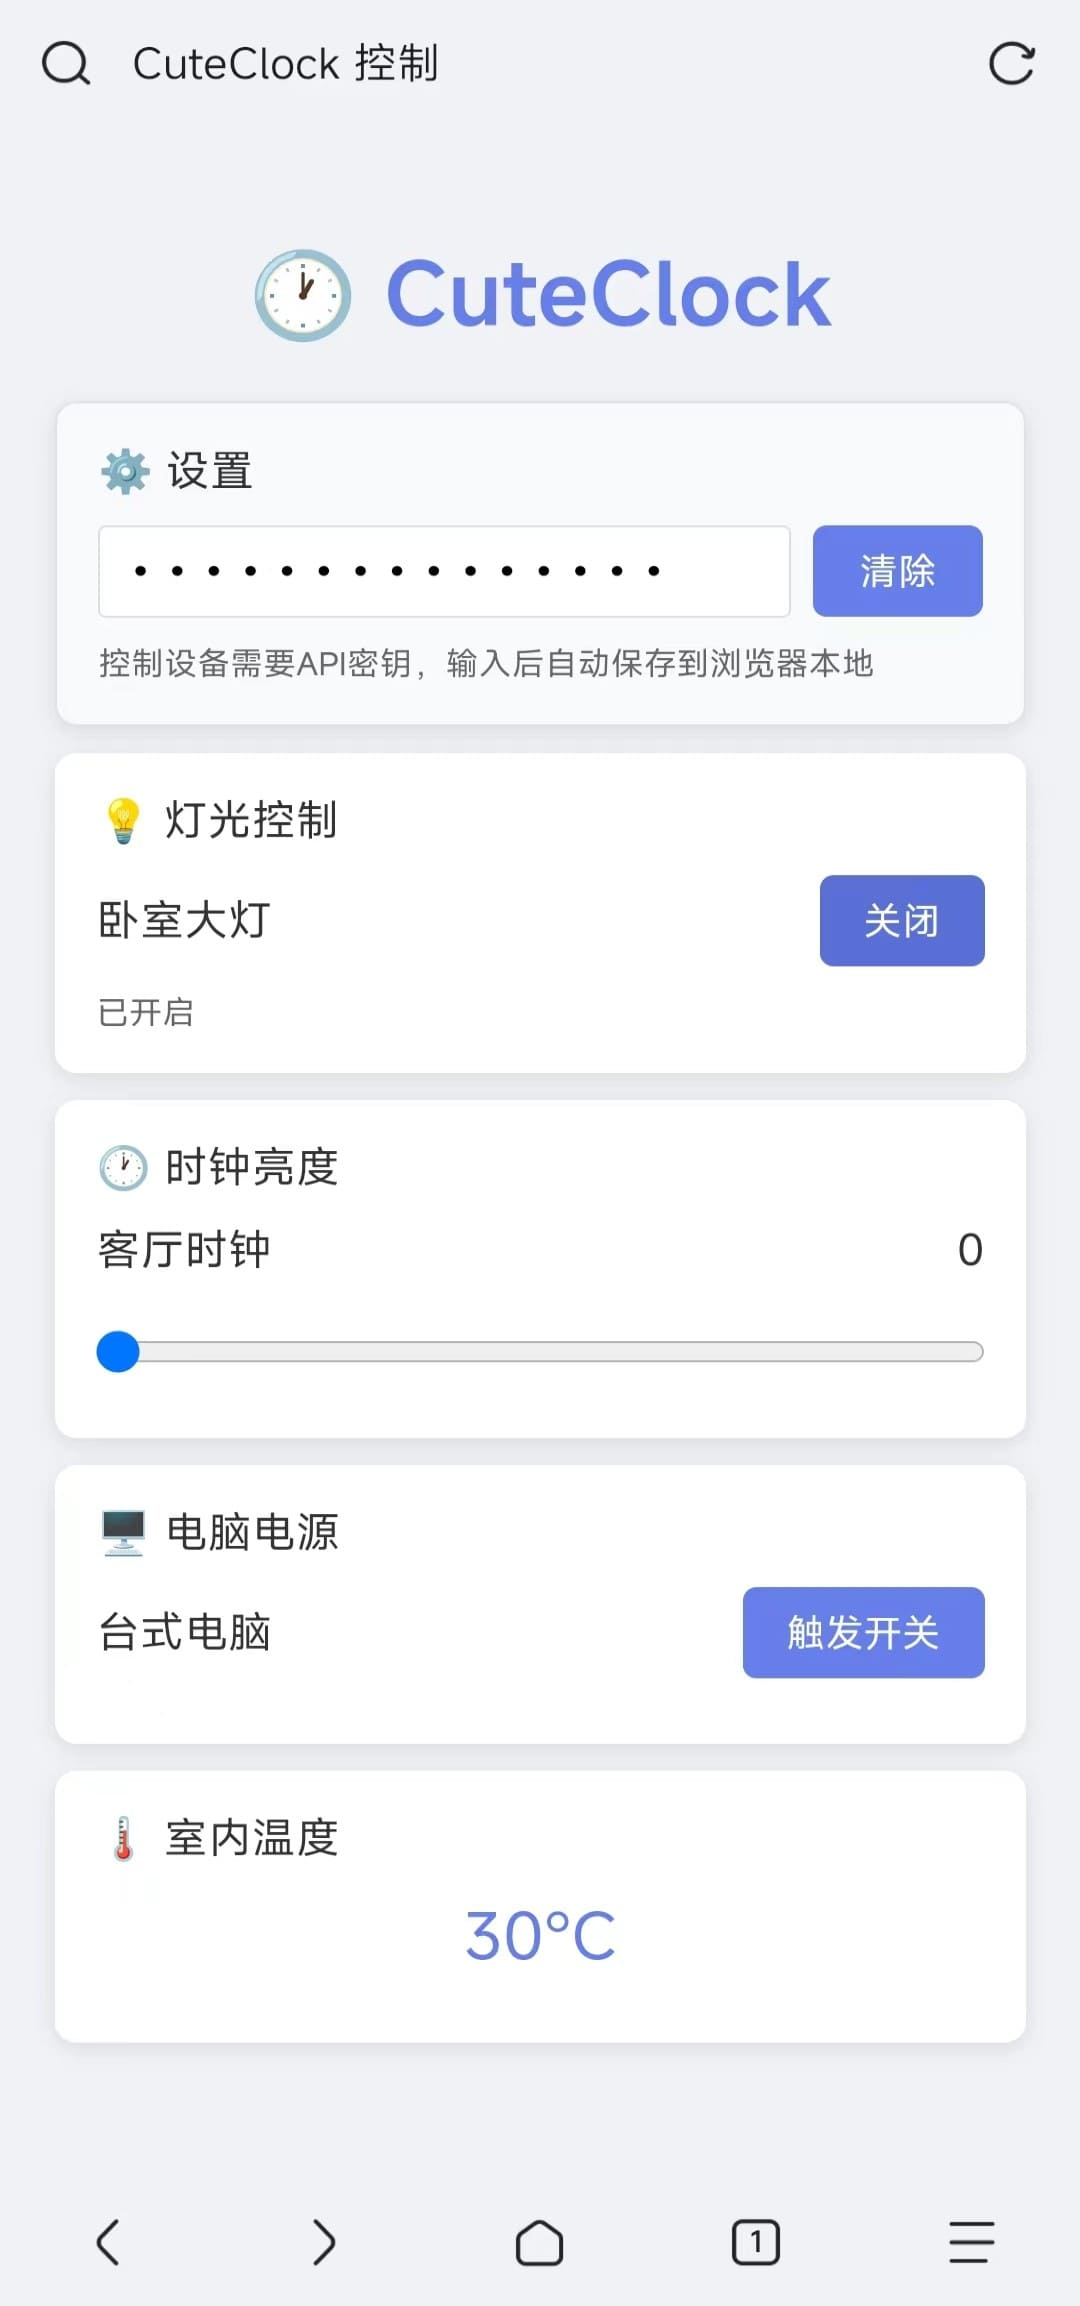
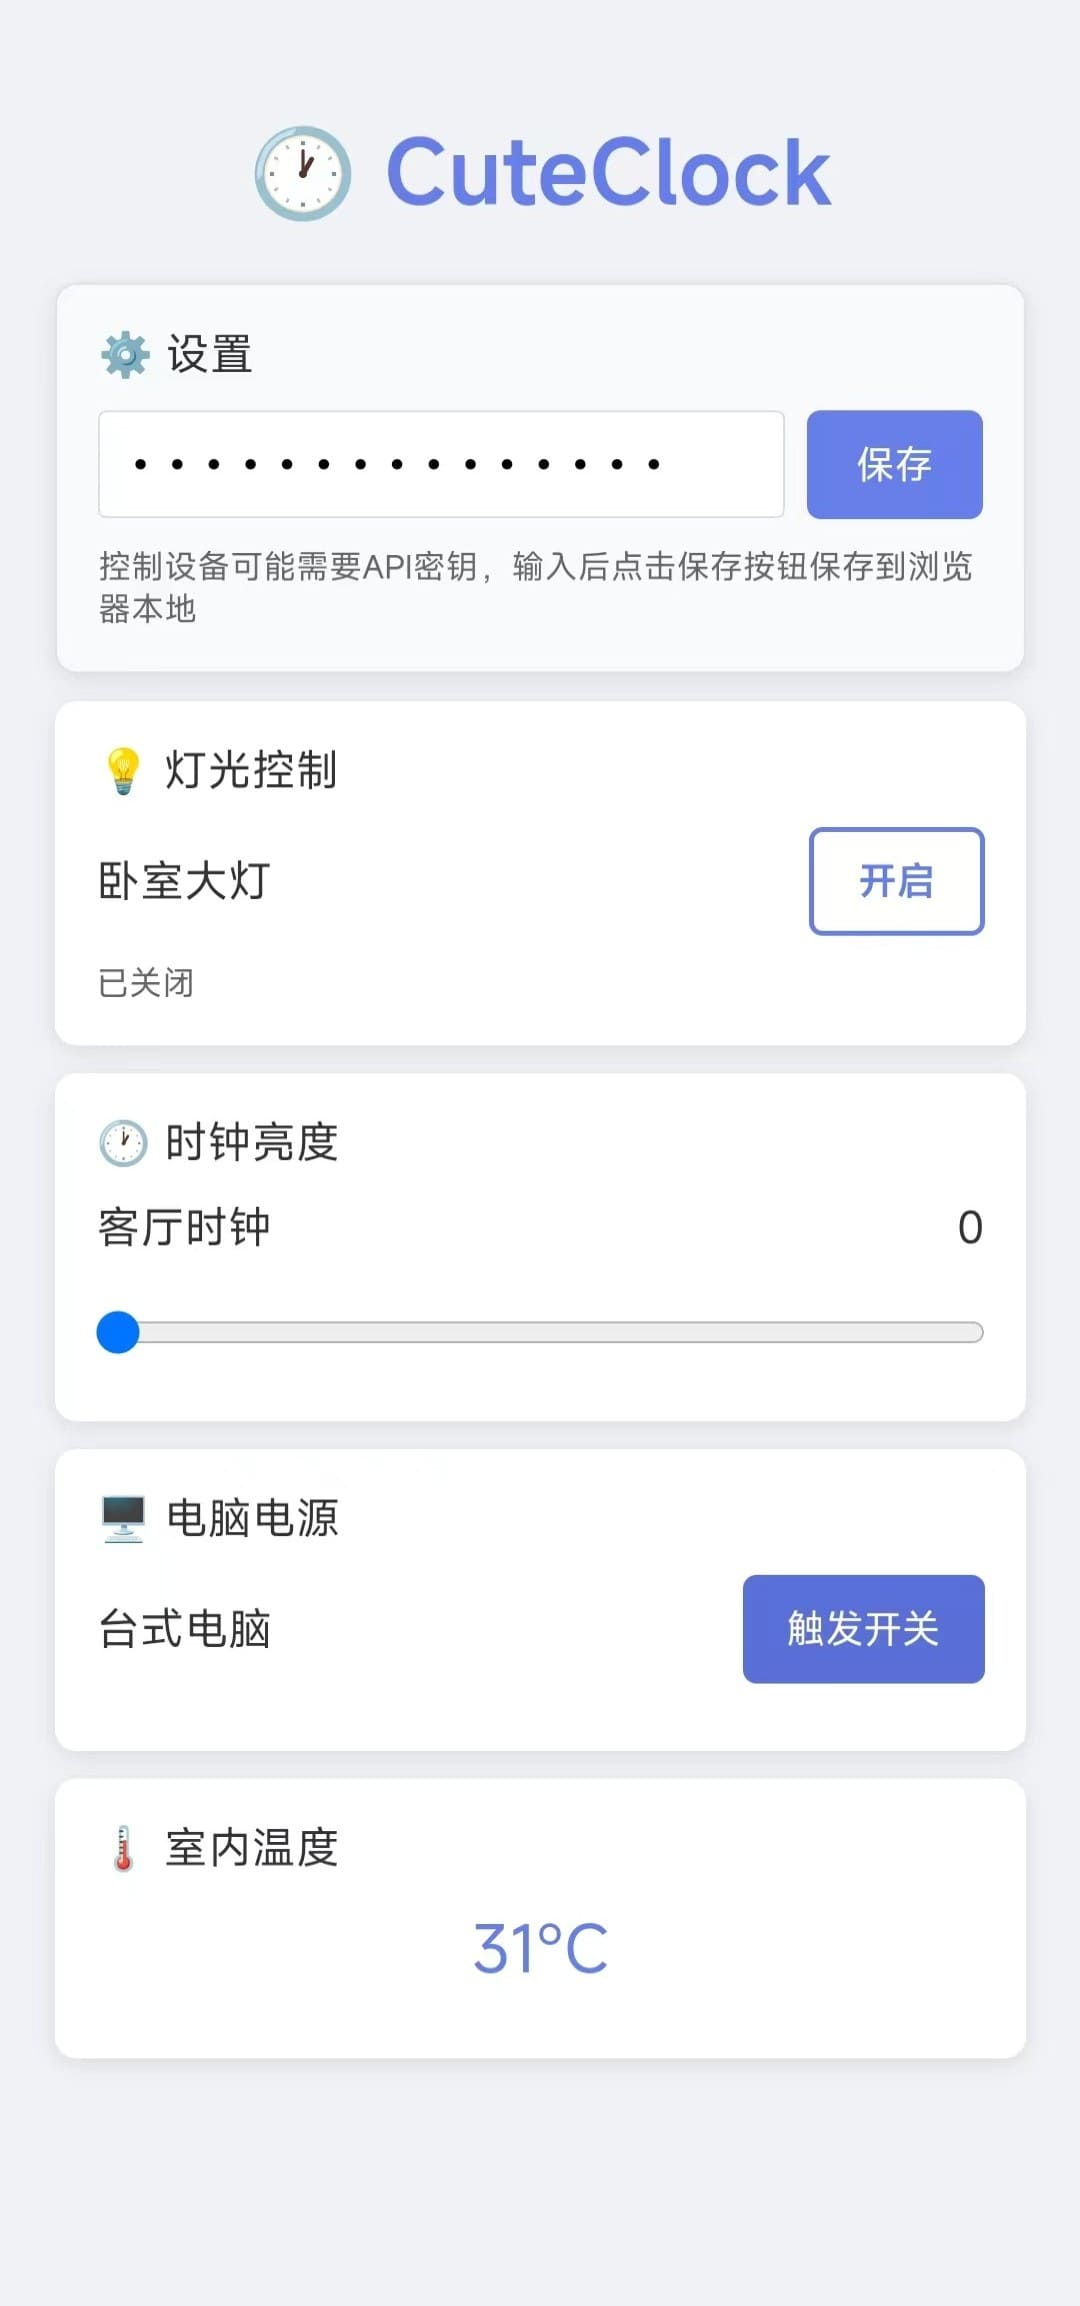
feat: 添加自动亮度调整功能，更新相关文档和代码实现，优化用户体验

diff --git a/firmware/WebControl.h b/firmware/WebControl.h
@@ -15,14 +15,15 @@ body{font-family:Arial,sans-serif;margin:0;padding:20px;background:#f0f2f5;color
 h1{text-align:center;color:#667eea;margin-bottom:20px}
 .card{background:#fff;border-radius:8px;padding:15px;margin:10px 0;box-shadow:0 2px 8px rgba(0,0,0,0.1)}
 .control{display:flex;justify-content:space-between;align-items:center;margin:10px 0}
-.btn{background:#667eea;color:#fff;border:none;padding:8px 16px;border-radius:5px;cursor:pointer;font-size:14px}
+.btn{background:#667eea;color:#fff;border:none;padding:8px 16px;border-radius:5px;cursor:pointer;font-size:14px;box-sizing:border-box;height:40px;min-width:64px;}
 .btn:hover{background:#5a6fd8}
-.btn.off{background:#ccc}
+.btn.off{background:#fff;border:#667eea 2px solid;color:#667eea;font-weight:bold;}
+.btn.off:hover{background:#e0e5fb;}
 .temp{font-size:24px;color:#667eea;text-align:center;margin:10px 0}
 .range{width:100%;margin:10px 0}
 .status{font-size:12px;color:#666;margin-top:5px}
 .settings{background:#f8f9fa;border:1px solid #dee2e6}
-.settings input{width:calc(100% - 70px);padding:8px;border:1px solid #ddd;border-radius:3px}
+.settings input{width:calc(100% - 70px);padding:8px;border:1px solid #ddd;border-radius:3px;height:22px}
 .settings button{width:64px;margin-left:8px}
 </style>
 </head>
@@ -33,10 +34,10 @@ h1{text-align:center;color:#667eea;margin-bottom:20px}
 <div class="card settings">
 <div>⚙ 设置</div>
 <div class="control">
-<input type="password" id="api-key" placeholder="请输入API密钥" onkeyup="saveApiKey()">
-<button class="btn" onclick="clearApiKey()">清除</button>
+<input type="password" id="api-key" placeholder="请输入API密钥">
+<button class="btn" onclick="saveApiKeyToLocal()">保存</button>
 </div>
-<div class="status">控制设备需要API密钥，输入后自动保存到浏览器本地</div>
+<div class="status">控制设备可能需要API密钥，输入后点击保存按钮保存到浏览器本地</div>
 </div>
 
 <div class="card">
@@ -76,6 +77,7 @@ h1{text-align:center;color:#667eea;margin-bottom:20px}
 let API_KEY=localStorage.getItem('cuteclock_api_key')||'';
 let BASE_URL=window.location.origin;
 let devices={};
+let brightnessDebounceTimer=null;
 
 async function req(url,data){
 const opt={method:data?'POST':'GET',headers:{'Content-Type':'application/json'}};
@@ -95,17 +97,18 @@ return res.json();
 function saveApiKey(){
 const key=document.getElementById('api-key').value.trim();
 API_KEY=key;
-if(key){
-localStorage.setItem('cuteclock_api_key',key);
-}else{
-localStorage.removeItem('cuteclock_api_key');
-}
 }
 
-function clearApiKey(){
-document.getElementById('api-key').value='';
-API_KEY='';
+function saveApiKeyToLocal(){
+const key=document.getElementById('api-key').value.trim();
+API_KEY=key;
+if(key){
+localStorage.setItem('cuteclock_api_key',key);
+alert('API密钥已保存到本地');
+}else{
 localStorage.removeItem('cuteclock_api_key');
+alert('API密钥已清除');
+}
 }
 
 async function loadStatus(){
@@ -153,9 +156,18 @@ setTimeout(loadStatus,200);
 async function setBrightness(val){
 document.getElementById('brightness-value').textContent=val;
 if(!devices.clock)return;
+
+// 清除之前的定时器
+if(brightnessDebounceTimer){
+clearTimeout(brightnessDebounceTimer);
+}
+
+// 设置新的防抖定时器，500ms后执行
+brightnessDebounceTimer=setTimeout(async ()=>{
 try{
 await req('/clock',{id:devices.clock.id,order:{type:'brightness',value:parseInt(val)}});
 }catch(e){alert('设置失败: '+e.message);}
+},500);
 }
 
 async function triggerPC(){

diff --git a/firmware/Displayer.cpp b/firmware/Displayer.cpp
@@ -300,6 +300,24 @@ void Displayer::showWifi()
     display_bitmap(23, 19, const_cast<uint8_t *>(icon_wifi));
 }
 
+/**
+ * @brief 设置时钟显示亮度
+ * @param value 要设置的亮度值
+ * 
+ * 这个函数用于设置时钟的显示亮度，支持以下场景：
+ * 
+ * 1. 定时自动调整亮度调用
+ * 2. 用户通过Web界面手动调节
+ * 3. 系统初始化时设置默认亮度
+ * 
+ * 函数会：
+ * - 验证亮度值是否在有效范围内
+ * - 同时设置两个显示区域的亮度
+ * - 更新全局亮度变量
+ * - 输出调试信息到串口
+ * 
+ * 注意：此函数会同步更新全局变量，确保亮度设置的一致性
+ */
 void Displayer::setClockBrightness(int value)
 {
     if (value <= GLOBAL_CLOCK_BRIGHTNESS_MAX && value >= GLOBAL_CLOCK_BRIGHTNESS_LOW)
@@ -324,8 +342,48 @@ void Displayer::checkClockBrightnessByHour(int hour)
     checkClockBrightnessByHour();
 }
 
+/**
+ * @brief 根据当前小时自动调整时钟亮度
+ * 
+ * 定时自动调整亮度功能说明：
+ * 
+ * 根据一天中的不同时间段自动调整时钟显示亮度，提供更好的用户体验：
+ * 
+ * 🌅 白天时段 (7:00-19:00)：
+ *    - 亮度设置为 4（较亮）
+ *    - 适合白天光线充足的环境
+ * 
+ * 🌆 傍晚时段 (19:00-23:00)：
+ *    - 亮度设置为 2（中等）
+ *    - 适合傍晚光线较暗的环境
+ * 
+ * 🌙 夜间时段 (23:00-7:00)：
+ *    - 亮度设置为最低值（GLOBAL_CLOCK_BRIGHTNESS_LOW）
+ *    - 避免夜间过亮影响休息
+ * 
+ * 调用时机：
+ * - 系统启动时（NTP时间同步成功后）
+ * - 离线模式下使用DS3231时间
+ * - 可通过Web界面手动调节覆盖自动设置
+ * 
+ * 注意：手动调节的亮度会保存在全局变量中，下次自动调节时会检测并应用
+ * 
+ * 配置控制：
+ * - 可通过 UserClockAutoBrightness 配置项启用/禁用此功能
+ * - 禁用后，亮度将保持用户手动设置的值
+ */
 void Displayer::checkClockBrightnessByHour()
 {
+    // 检查是否启用自动亮度调整
+    #ifndef UserClockAutoBrightness
+        #define UserClockAutoBrightness true
+    #endif
+    
+    if (!UserClockAutoBrightness) {
+        Serial.println("自动亮度调整功能已禁用");
+        return;
+    }
+    
     int value;
     if (_hour_variable >= 7 && _hour_variable <= 19)
     {
@@ -337,7 +395,7 @@ void Displayer::checkClockBrightnessByHour()
     }
     else
     {
-        value = 0;
+        value = GLOBAL_CLOCK_BRIGHTNESS_LOW;
     }
 
     setClockBrightness(value);

diff --git a/firmware/UserConfig.example.h b/firmware/UserConfig.example.h
@@ -65,6 +65,9 @@
 #define UserClockBrightnessMax 15                  // 时钟最高亮度
 #define UserClockBrightnessDefault 2               // 时钟默认亮度
 
+// 自动亮度调整配置
+#define UserClockAutoBrightness true               // 是否启用整点自动亮度调整（true=启用，false=禁用）
+
 // 个性化显示
 #define UserLoveDisplayText "I&Y"                  // 爱心模式显示的文字，& 在代码中会转为爱心符号
 

diff --git a/firmware/JsonWifiServer.cpp b/firmware/JsonWifiServer.cpp
@@ -1,5 +1,5 @@
 #include "JsonWifiServer.h"
-#include "UserConfig.h"
+#include "GlobalConfigure.h"
 
 String JsonWifiServer::getAllStatusJson(boolean enable, int bright, float temperature)
 {

diff --git a/docs/configuration.md b/docs/configuration.md
@@ -91,11 +91,24 @@
 ### 🎛 硬件显示配置（可选）
 
 ```cpp
-#define UserClockBrightnessMin 0                   // 时钟最低亮度
+#define UserClockBrightnessMin 1                   // 时钟最低亮度
 #define UserClockBrightnessMax 15                  // 时钟最高亮度
 #define UserClockBrightnessDefault 2               // 时钟默认亮度
+#define UserClockAutoBrightness true               // 是否启用自动亮度调整（true=启用，false=禁用）
 #define UserLoveDisplayText "I&Y"                  // 爱心模式显示的文字，& 会在代码中替换为爱心符号
 ```
+
+#### 自动亮度调整功能
+
+**功能说明：**
+系统会根据一天中的不同时间段自动调整时钟显示亮度，提供更好的用户体验：
+
+- **🌅 白天时段 (7:00-19:00)**：亮度设置为 4（较亮），适合白天光线充足的环境
+- **🌆 傍晚时段 (19:00-23:00)**：亮度设置为 2（中等），适合傍晚光线较暗的环境  
+- **🌙 夜间时段 (23:00-7:00)**：亮度设置为最低值，避免夜间过亮影响休息
+
+**注意事项：**
+- 自动调整仅在整点时执行，避免频繁调整
 
 ## 🛠 高级配置
 
@@ -120,3 +133,5 @@
 3. **网络要求：** 设备需要稳定的 2.4GHz WiFi 连接，不支持 5GHz 网络。
 
 4. **端口冲突：** 如果遇到端口冲突，请修改相应的端口配置。
+
+5. **自动亮度调整：** 此功能仅在整点执行，如需立即调整亮度，请使用各端手动调节。
